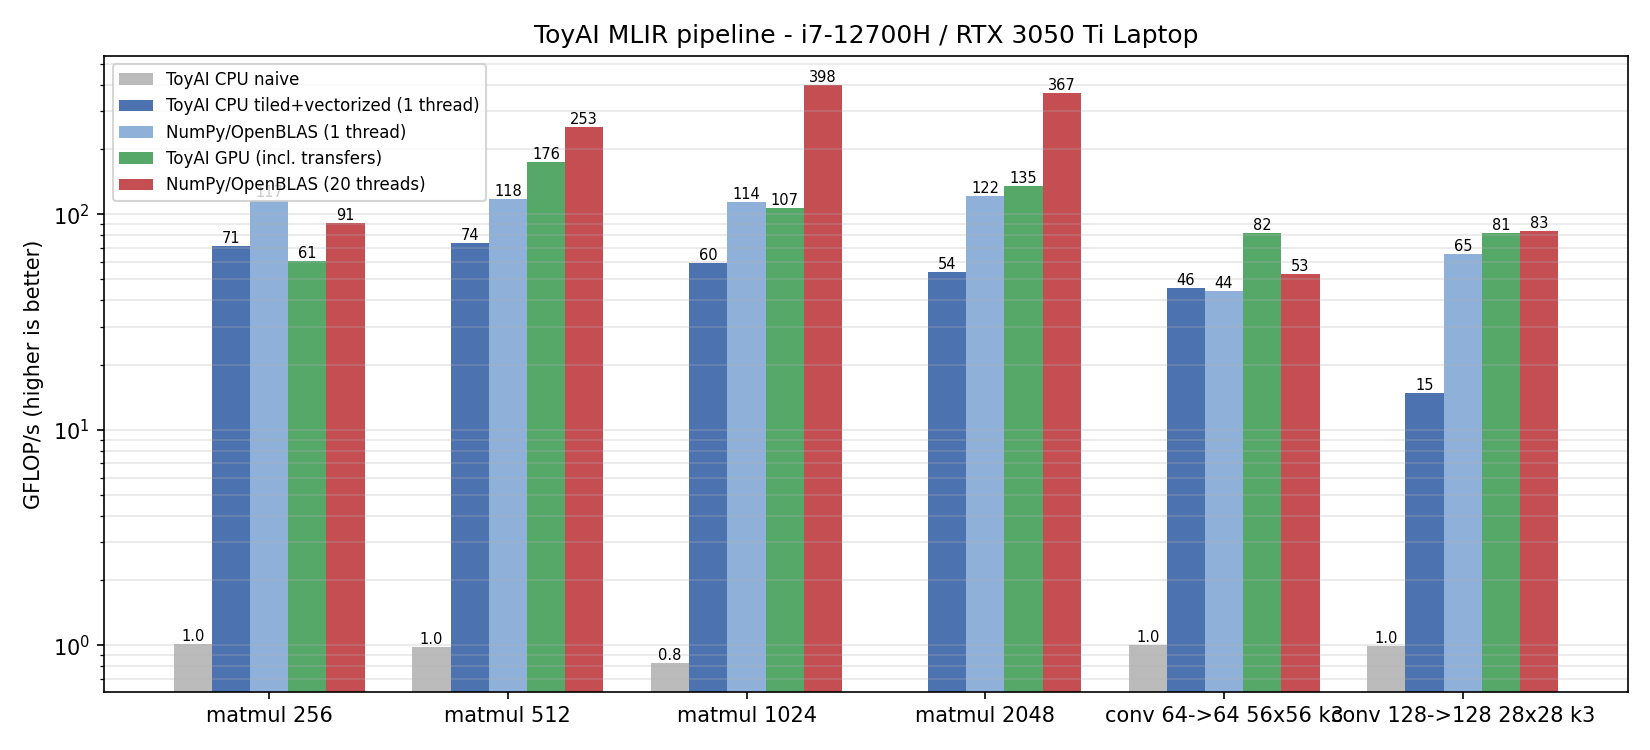
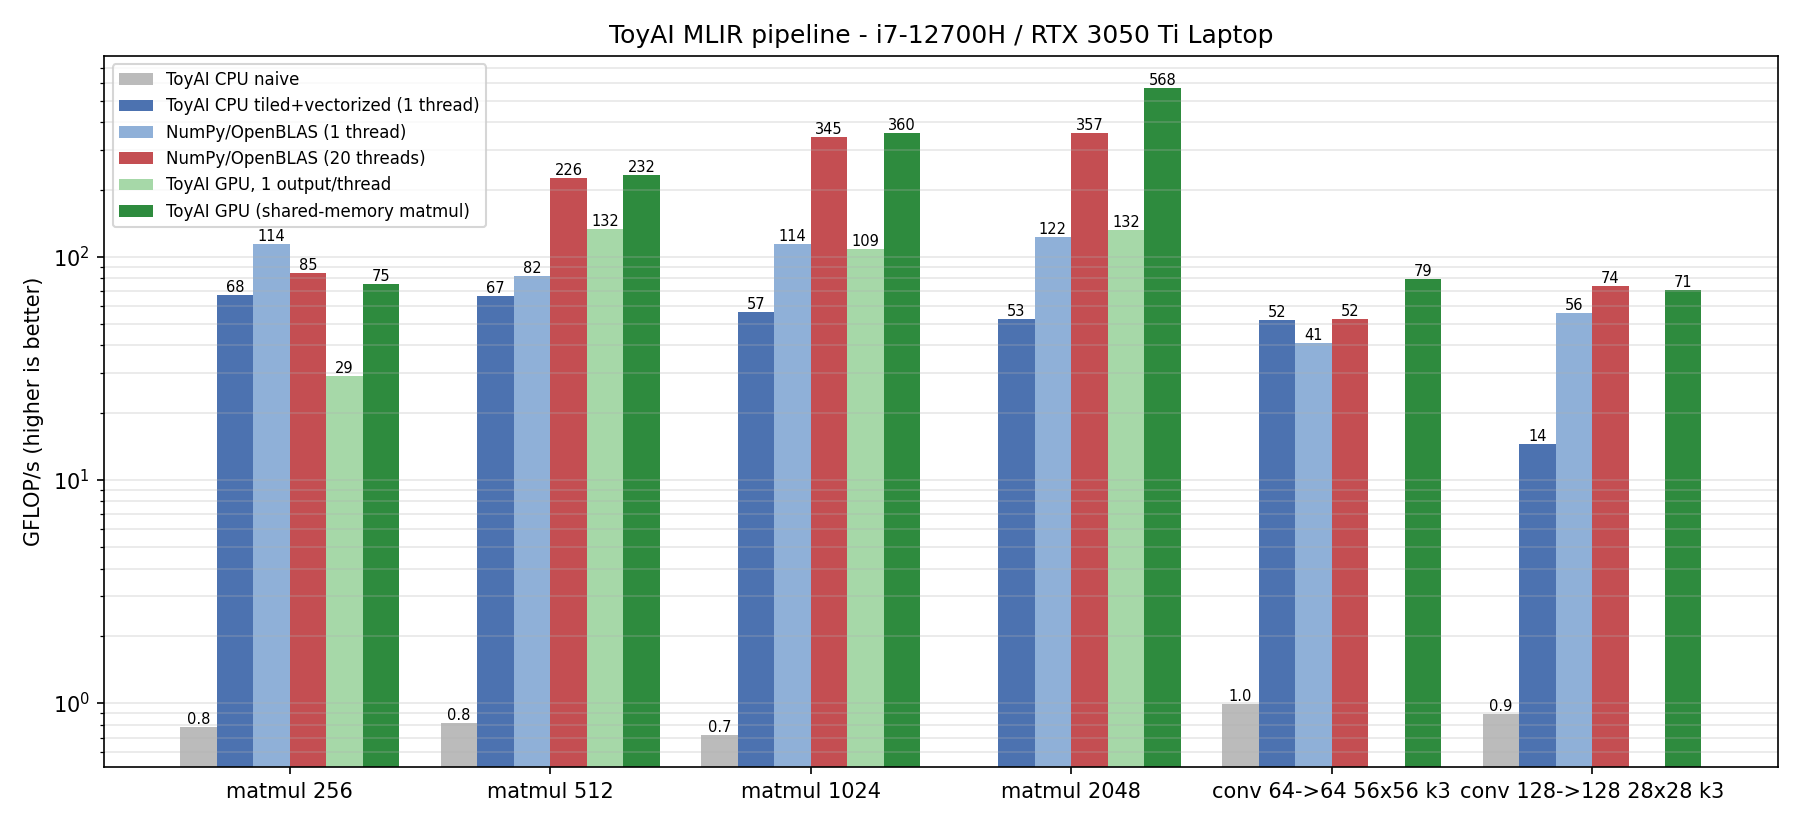
bench: compare GPU matmul kernels, refresh results

diff --git a/benchmarks/bench.py b/benchmarks/bench.py
@@ -7,6 +7,7 @@ Variants:
   cpu-opt      cache tiling + vectorization + register blocking (1 thread)
   gpu          toyai-gpu-pipeline on the CUDA device, end to end
                (host->device copies, kernels, device->host copy)
+  gpu-simple   same, without the shared-memory matmul kernel (matmul only)
   numpy-1t     NumPy/OpenBLAS restricted to one thread
   numpy        NumPy/OpenBLAS with all threads
 
@@ -30,7 +31,7 @@ REPO = Path(__file__).resolve().parents[1]
 sys.path.insert(0, str(REPO / "python"))
 
 from toyai import parse  # noqa: E402
-from toyai.compiler import Compiler, CpuOptions  # noqa: E402
+from toyai.compiler import Compiler, CpuOptions, GpuOptions  # noqa: E402
 from toyai.reference import conv2d_nchw  # noqa: E402
 
 
@@ -111,11 +112,12 @@ def run(cases: list[dict], reps: int) -> list[dict]:
             a, b, padding=(case["shapes"][1][2] // 2,) * 2)
         row = {"case": case["name"], "gflop": case["flops"] / 1e9, "seconds": {}}
 
-        variants = [("cpu-opt", "cpu", CpuOptions(optimize=True)), ("gpu", "gpu", None)]
+        variants = [("cpu-opt", "cpu", {"cpu": CpuOptions(optimize=True)}), ("gpu", "gpu", {})]
         if case["naive"]:
-            variants.insert(0, ("cpu-naive", "cpu", CpuOptions(optimize=False)))
-        for label, target, cpu in variants:
-            kwargs = {"cpu": cpu} if cpu else {}
+            variants.insert(0, ("cpu-naive", "cpu", {"cpu": CpuOptions(optimize=False)}))
+        if case["name"].startswith("matmul"):
+            variants.insert(-1, ("gpu-simple", "gpu", {"gpu": GpuOptions(shared_matmul=False)}))
+        for label, target, kwargs in variants:
             module = compiler.compile(program, target=target, **kwargs)
             out = np.empty(want.shape, np.float32)
             module["k"](a, b, out=out)
@@ -137,18 +139,18 @@ def plot(results: list[dict], path: Path) -> None:
     matplotlib.use("Agg")
     import matplotlib.pyplot as plt
 
-    labels = ["cpu-naive", "cpu-opt", "numpy-1t", "gpu", "numpy"]
+    labels = ["cpu-naive", "cpu-opt", "numpy-1t", "numpy", "gpu-simple", "gpu"]
     colors = {"cpu-naive": "#bbbbbb", "cpu-opt": "#4c72b0", "numpy-1t": "#8fb0d8",
-              "gpu": "#55a868", "numpy": "#c44e52"}
+              "numpy": "#c44e52", "gpu-simple": "#a6d8a8", "gpu": "#2e8b3e"}
     names = {"cpu-naive": "ToyAI CPU naive", "cpu-opt": "ToyAI CPU tiled+vectorized (1 thread)",
-             "numpy-1t": "NumPy/OpenBLAS (1 thread)", "gpu": "ToyAI GPU (incl. transfers)",
-             "numpy": "NumPy/OpenBLAS (20 threads)"}
-    fig, ax = plt.subplots(figsize=(11, 5))
-    width = 0.16
+             "numpy-1t": "NumPy/OpenBLAS (1 thread)", "numpy": "NumPy/OpenBLAS (20 threads)",
+             "gpu-simple": "ToyAI GPU, 1 output/thread", "gpu": "ToyAI GPU (shared-memory matmul)"}
+    fig, ax = plt.subplots(figsize=(12, 5.5))
+    width = 0.14
     x = np.arange(len(results))
     for i, label in enumerate(labels):
         vals = [r["gflops"].get(label, 0.0) for r in results]
-        bars = ax.bar(x + (i - 2) * width, vals, width, label=names[label], color=colors[label])
+        bars = ax.bar(x + (i - 2.5) * width, vals, width, label=names[label], color=colors[label])
         for bar, v in zip(bars, vals):
             if v > 0:
                 ax.annotate(f"{v:.0f}" if v >= 10 else f"{v:.1f}", (bar.get_x() + bar.get_width() / 2, v),
